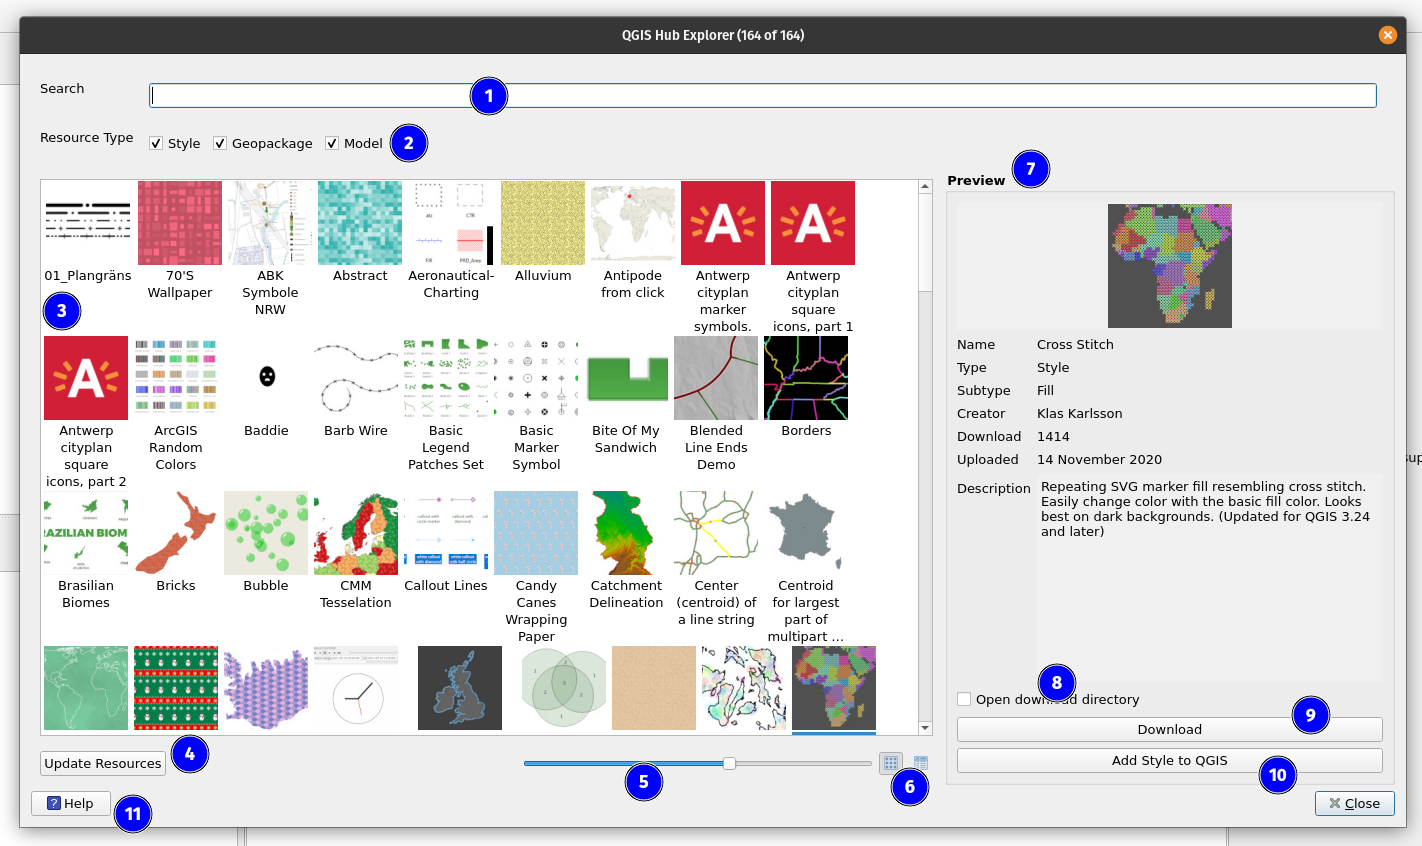
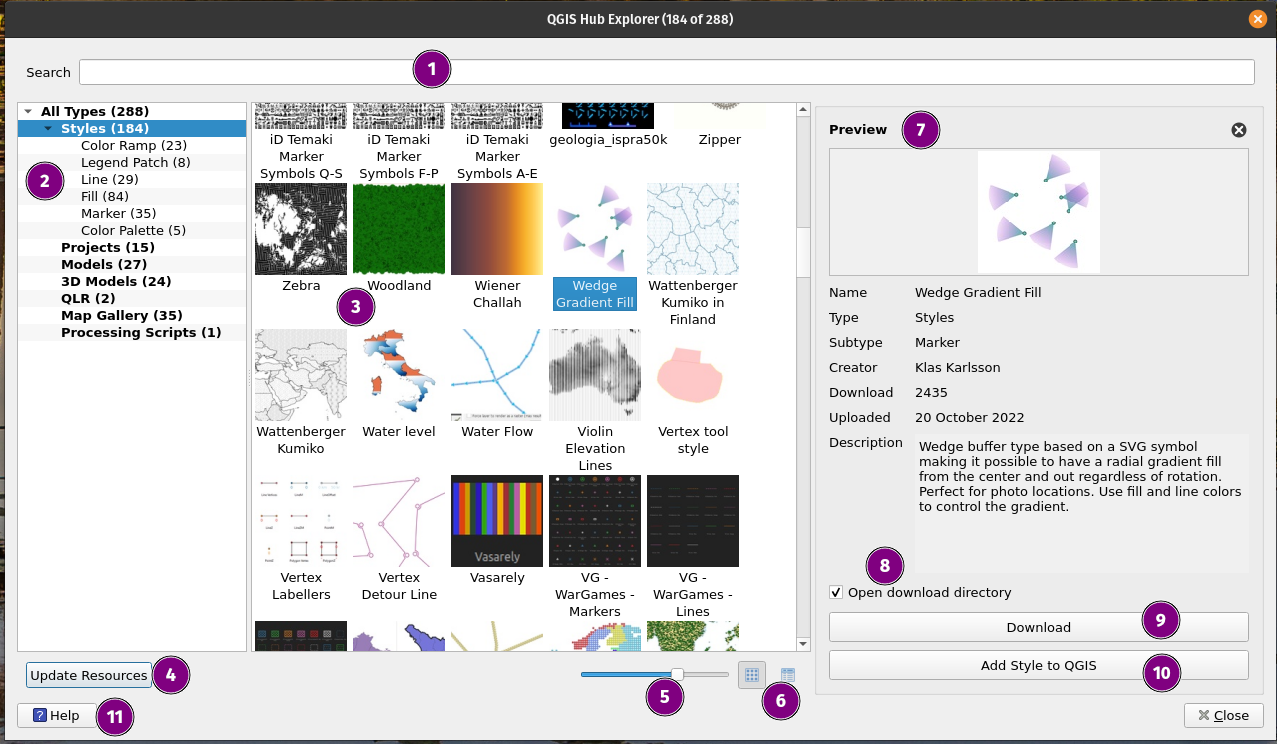
Update documentation for 0.4.0

diff --git a/docs/index.md b/docs/index.md
@@ -23,7 +23,7 @@
 Features:
 
 1. Search by resource's name or creator
-2. Filter by resource type
+2. Filter by resource type or subtype
 3. Resource shown as grid or list:
 
    - On the grid view, the thumbnail can be resized
@@ -38,9 +38,11 @@ Features:
 
    - Style will be added to your style manager
    - Model will be added to your profile model directory and shown directly on your QGIS
-   - Geopackage will be downloaded on your disk and loaded directly
-   - 3D model has no option to add to QGIS directly (you can still download it and use it from 3D style panel)
-   - Layer Definition will be loaded directly
+   - Project will be downloaded on your disk and loaded directly
+   - 3D Model has no option to add to QGIS directly (you can still download it and use it from 3D style panel)
+   - QLR or Layer Definition will be loaded directly
+   - Map will be shown in browser
+   - Processing Scrip will be added to processing list and shown directly on your QGIS
 
 10. Download the resource on your disk (without adding to QGIS)
 11. Open this help page
